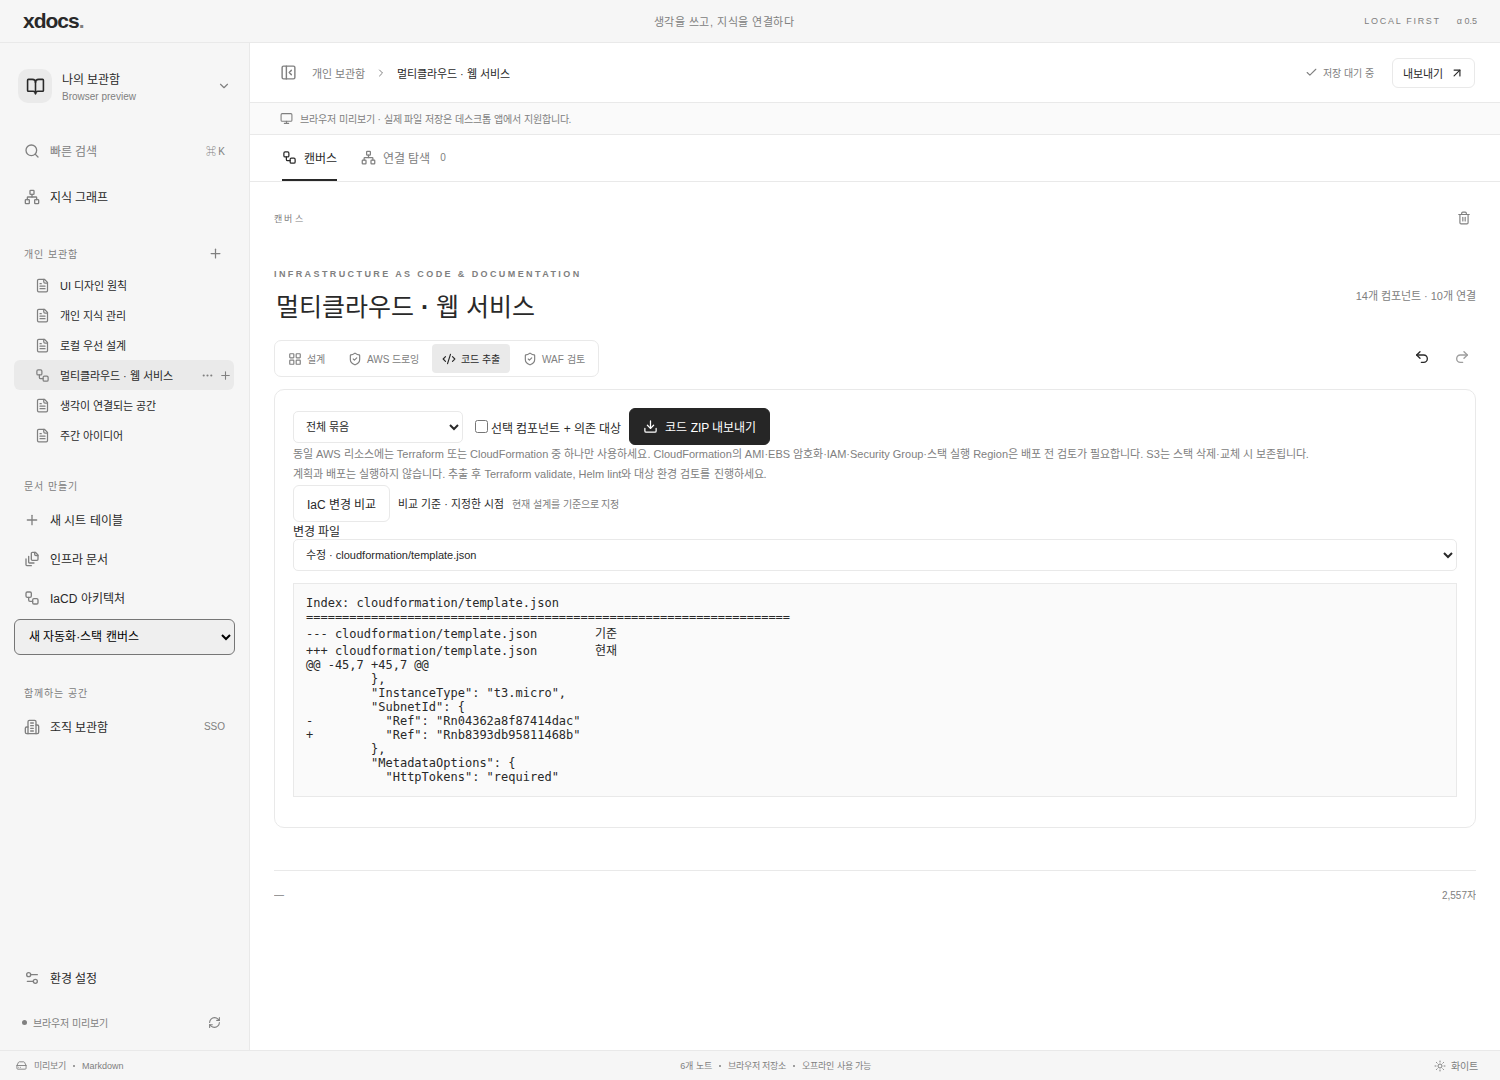
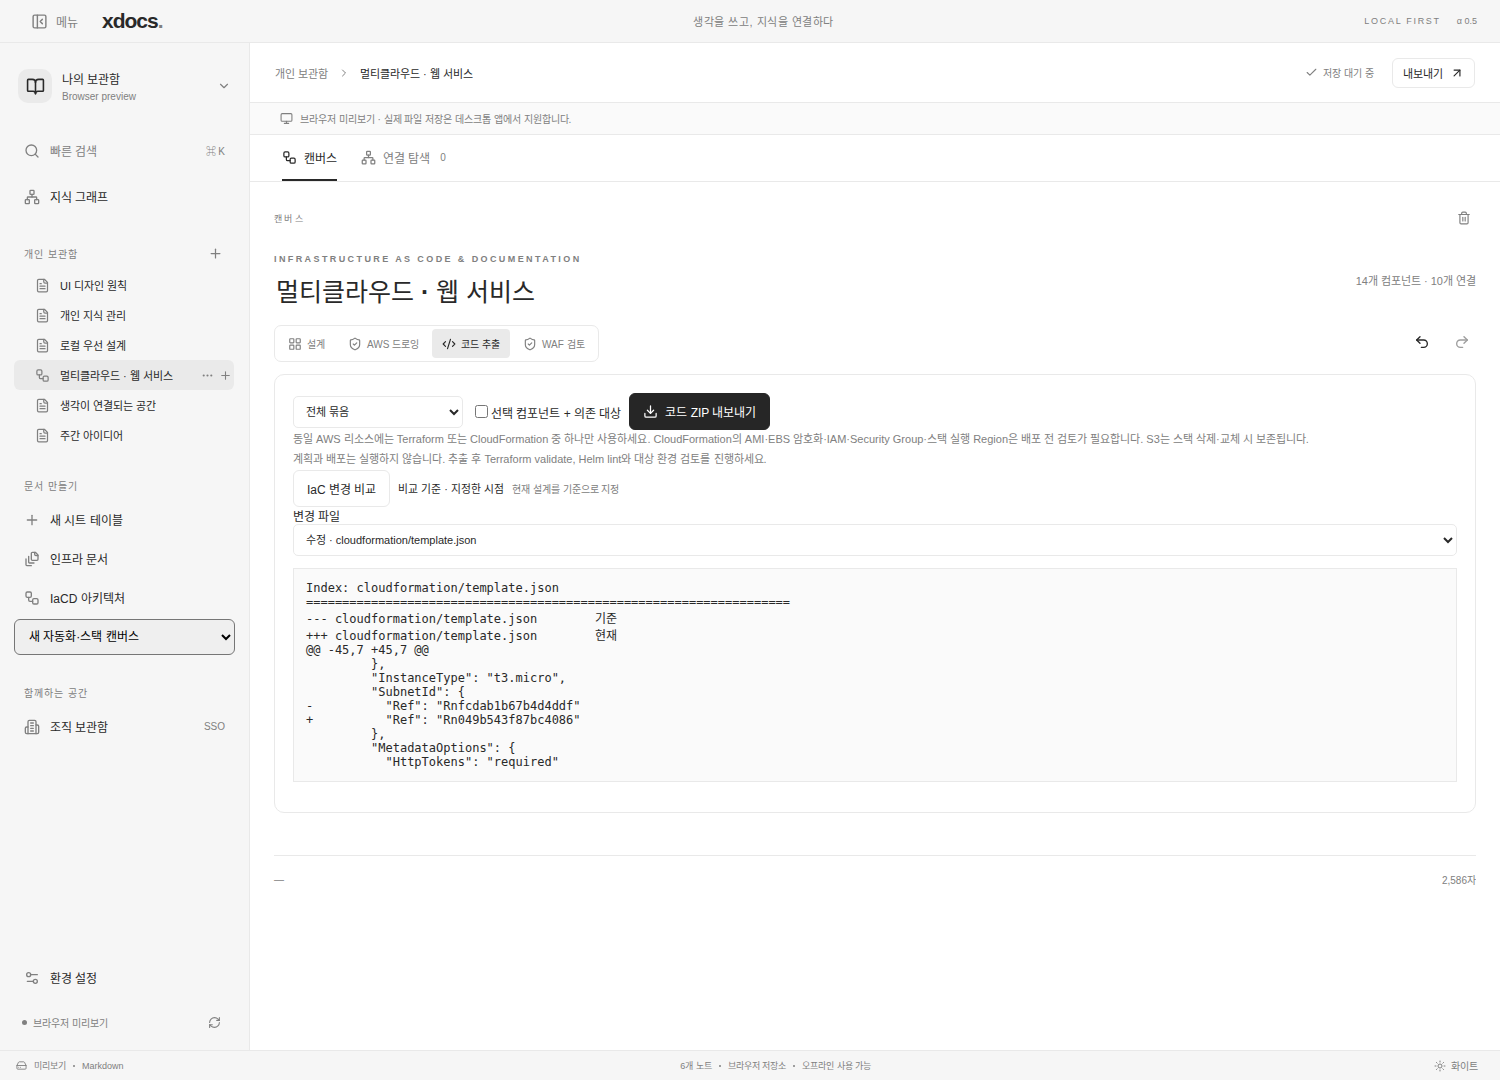
Keep workspace navigation accessible and expand cramped document views

diff --git a/src/App.tsx b/src/App.tsx
@@ -64,6 +64,7 @@ import {
   Moon,
   Network,
   PanelLeftClose,
+  PanelLeftOpen,
   Plus,
   RefreshCw,
   Search,
@@ -121,7 +122,30 @@ export default function App() {
   const [notice, setNotice] = useState("");
   const [exportOpen, setExportOpen] = useState(false);
   const [busy, setBusy] = useState(false);
-  const [sidebar, setSidebar] = useState(true);
+  const [desktopSidebar, setDesktopSidebar] = useState(
+    () => localStorage.getItem("xdocs.sidebar") !== "closed",
+  );
+  const [compactNav, setCompactNav] = useState(
+    () => matchMedia("(max-width: 600px)").matches,
+  );
+  const [drawer, setDrawer] = useState(false);
+  const sidebar = compactNav ? drawer : desktopSidebar;
+  useEffect(() => {
+    const query = matchMedia("(max-width: 600px)");
+    const resize = () => {
+      setCompactNav(query.matches);
+      setDrawer(false);
+    };
+    query.addEventListener("change", resize);
+    return () => query.removeEventListener("change", resize);
+  }, []);
+  function toggleSidebar() {
+    if (compactNav) setDrawer(!drawer);
+    else {
+      localStorage.setItem("xdocs.sidebar", desktopSidebar ? "closed" : "open");
+      setDesktopSidebar(!desktopSidebar);
+    }
+  }
   const architectureParent = useRef<string | undefined>(undefined);
   const current = useRef<Note | null>(null);
   const draft = useRef("");
@@ -379,6 +403,7 @@ export default function App() {
         void flush();
       }
       if (e.key === "Escape") {
+        setDrawer(false);
         setSearchOpen(false);
         setSettings(false);
         setRecovery(null);
@@ -719,15 +744,53 @@ export default function App() {
   return (
     <div className={`app ${sidebar ? "" : "sidebar-hidden"}`}>
       <header className="titlebar">
-        <div className="wordmark">
-          xdocs<span>.</span>
+        <div className="titlebar-start">
+          <button
+            className="sidebar-switch"
+            aria-label={sidebar ? "왼쪽 메뉴 접기" : "왼쪽 메뉴 펼치기"}
+            title={sidebar ? "왼쪽 메뉴 접기" : "왼쪽 메뉴 펼치기"}
+            aria-expanded={sidebar}
+            aria-controls="workspace-navigation"
+            onClick={toggleSidebar}
+          >
+            {sidebar ? (
+              <PanelLeftClose size={17} />
+            ) : (
+              <PanelLeftOpen size={17} />
+            )}
+            <span>메뉴</span>
+          </button>
+          <div className="wordmark">
+            xdocs<span>.</span>
+          </div>
         </div>
         <span className="titlebar-center">생각을 쓰고, 지식을 연결하다</span>
         <span className="version">
           LOCAL FIRST <span>α 0.5</span>
         </span>
       </header>
-      <aside className="sidebar">
+      {compactNav && drawer && (
+        <button
+          className="nav-backdrop"
+          aria-label="왼쪽 메뉴 닫기"
+          tabIndex={-1}
+          onClick={() => setDrawer(false)}
+        />
+      )}
+      <aside
+        className="sidebar"
+        id="workspace-navigation"
+        inert={!sidebar}
+        onClick={(e) => {
+          if (
+            compactNav &&
+            (e.target as Element).closest(
+              "button.nav-item:not(.note-item), .workspace-switch",
+            )
+          )
+            setDrawer(false);
+        }}
+      >
         <button
           className="workspace-switch"
           onClick={openVault}
@@ -764,7 +827,10 @@ export default function App() {
           <button
             aria-label="새 노트"
             title="새 노트"
-            onClick={() => void createNote()}
+            onClick={() => {
+              setDrawer(false);
+              void createNote();
+            }}
             disabled={!workspace || busy}
           >
             <Plus size={15} />
@@ -776,8 +842,14 @@ export default function App() {
           notes={notes}
           active={view === "note" ? active : ""}
           readonly={busy || workspace?.role === "reader"}
-          onOpen={(id) => void navigate(id)}
-          onCreate={(parent, kind) => void createPage(kind, parent)}
+          onOpen={(id) => {
+            setDrawer(false);
+            void navigate(id);
+          }}
+          onCreate={(parent, kind) => {
+            setDrawer(false);
+            void createPage(kind, parent);
+          }}
         />
         <div className="nav-label">
           <span>문서 만들기</span>
@@ -816,7 +888,10 @@ export default function App() {
           disabled={!workspace || readonly || busy}
           onChange={(e) => {
             const k = e.target.value as keyof typeof templates;
-            if (k) void createPage(k);
+            if (k) {
+              setDrawer(false);
+              void createPage(k);
+            }
           }}
         >
           <option value="">새 자동화·스택 캔버스</option>
@@ -887,16 +962,9 @@ export default function App() {
           )}
         </div>
       </aside>
-      <main className="main">
+      <main className="main" inert={compactNav && drawer}>
         <div className="toolbar">
           <div className="breadcrumb">
-            <button
-              className="icon-button"
-              aria-label="사이드바 전환"
-              onClick={() => setSidebar((s) => !s)}
-            >
-              <PanelLeftClose size={17} />
-            </button>
             <span>{shared ? "조직 보관함" : "개인 보관함"}</span>
             <ChevronRight size={12} />
             <strong>

diff --git a/src/styles.css b/src/styles.css
@@ -243,9 +243,7 @@ textarea {
   place-items: center;
 }
 .note-list {
-  overflow: auto;
-  min-height: 40px;
-  max-height: 48%;
+  flex: none;
   padding-right: 1px;
 }
 .note-item {
@@ -1830,7 +1828,7 @@ textarea {
 }
 
 .sheet-scroll {
-  max-height: clamp(180px, calc(100dvh - 440px), 540px);
+  max-height: clamp(260px, 60dvh, 760px);
 }
 
 .infrastructure-document {
@@ -2527,3 +2525,59 @@ textarea {
 .network-note {font-size:11px;display:flex;align-items:center;gap:6px;}
 .network-note input {flex:1;min-width:0;color:var(--ink);background:var(--surface);border:1px solid var(--line);}
 .network-sheet [data-bend] {cursor:move;}
+
+/* The navigation and its toggle have independent scroll ownership. */
+.titlebar-start, .sidebar-switch { display: flex; align-items: center; gap: 8px; }
+.titlebar-start { gap: 16px; }
+.sidebar-switch { min-height: 32px; padding: 4px 8px; border-radius: 5px; color: var(--muted); font-size: 12px; }
+.sidebar-switch:hover, .sidebar-switch:focus-visible { color: var(--ink); background: var(--hover); }
+.sidebar > * { flex-shrink: 0; }
+.toolbar, .preview-banner { flex-shrink: 0; }
+.arch-toolbar, .arch-tools, .arch-toolbar .segmented, .arch-canvas-tools { flex-wrap: wrap; }
+.arch-canvas-tools { height: auto; min-height: 40px; padding-block: 5px; }
+.arch-code, .arch-export, .infra-heading > *, .arch-header > * { min-width: 0; }
+.sheet-layout .document { max-width: none; }
+.arch-properties { min-width: 0; }
+.arch-properties select, .note-utilities select { max-width: 100%; }
+.view-tabs, .toolbar-actions { flex-wrap: wrap; }
+.reference-list { max-height: clamp(100px, 18dvh, 180px); }
+
+@media (max-height: 800px) {
+  .sidebar { padding-block: 14px; }
+  .workspace-switch { padding-bottom: 12px; }
+  .nav-label { padding-top: 14px; }
+  .sidebar-bottom { padding-top: 12px; }
+  .graph:not(.compact) { padding-block: 20px; }
+  .graph:not(.compact) .graph-canvas { min-height: clamp(260px, 42dvh, 370px); margin-block: 14px; }
+  .document, .sheet-layout .document { padding-block: 20px; }
+  .sheet-book, .architecture-document { margin-block: 12px; }
+  .infrastructure-document { padding-block: 12px; }
+}
+@media (max-width: 1050px) {
+  .arch-properties { max-height: none; overflow: visible; }
+  .sheet-layout .document { padding-inline: clamp(14px, 2.5vw, 28px); }
+}
+@media (max-width: 600px) {
+  .app, .app.sidebar-hidden { grid-template-columns: minmax(0, 1fr); }
+  .main { grid-column: 1; grid-row: 2; }
+  .sidebar { display: flex; position: fixed; top: 43px; bottom: 30px; left: 0; width: min(280px, 85vw); z-index: 21; }
+  .sidebar-hidden .sidebar { display: none; }
+  .nav-backdrop { position: fixed; inset: 43px 0 30px; background: #0005; z-index: 20; }
+  .arch-editor { grid-template-columns: minmax(0, 1fr); }
+  .arch-palette { display: flex; align-items: center; flex-wrap: wrap; gap: 4px; max-height: 32dvh; border-right: 0; border-bottom: 1px solid var(--line); }
+  .arch-palette > strong, .arch-palette select { margin: 0; }
+  .arch-palette > button { width: auto; }
+  .arch-code { grid-template-columns: minmax(0, 1fr); }
+  .arch-code nav { max-height: 24dvh; }
+  .arch-workspace { height: max(460px, 70dvh); }
+  .aws-inspector { grid-template-columns: minmax(0, 1fr); }
+  .infra-heading, .infra-detail header, .infra-summary > div { flex-wrap: wrap; }
+  .infra-summary { gap: 5px; }
+  .segmented { flex-wrap: wrap; }
+  .theme-options { grid-template-columns: repeat(2, minmax(0, 1fr)); }
+  .graph-filters > *, .infra-toolbar > *, .arch-export select { max-width: 100%; }
+}
+.note-utilities:empty { display: none; }
+@media (max-height: 800px) {
+  .sheet-layout .document-kicker { margin-bottom: 6px; }
+}

diff --git a/tests/ui/layout.spec.ts b/tests/ui/layout.spec.ts
@@ -1,0 +1,74 @@
+import { expect, test, type Page } from "@playwright/test";
+
+async function fitsWidth(page: Page, selector: string) {
+  const overflowing = await page
+    .locator(selector)
+    .evaluateAll((elements) =>
+      elements
+        .filter((e) => e.clientWidth > 0 && e.scrollWidth > e.clientWidth + 1)
+        .map((e) => e.className),
+    );
+  expect(overflowing).toEqual([]);
+}
+
+test("laptop sidebar stays reachable, remembers its width state and gives the tree one scroll area", async ({
+  page,
+}) => {
+  await page.setViewportSize({ width: 780, height: 600 });
+  await page.goto("/");
+  const menu = page.locator(".sidebar-switch");
+  const main = page.locator("main");
+  const tree = page.locator(".page-tree");
+  await expect(
+    tree.getByRole("button", { name: "주간 아이디어", exact: true }),
+  ).toBeVisible();
+  expect(await tree.evaluate((e) => e.clientHeight)).toBeGreaterThan(100);
+  expect(
+    await tree.evaluate((e) => e.scrollHeight - e.clientHeight),
+  ).toBeLessThanOrEqual(1);
+  await page.getByRole("button", { name: "새 시트 테이블" }).click();
+  expect(
+    await page.locator(".sheet-scroll").evaluate((e) => e.clientHeight),
+  ).toBeGreaterThan(300);
+  await main.evaluate((e) => {
+    e.scrollTop = e.scrollHeight;
+  });
+  await expect(menu).toBeInViewport();
+  await menu.click();
+  await expect(menu).toHaveAttribute("aria-expanded", "false");
+  expect(await main.evaluate((e) => e.clientWidth)).toBe(780);
+  await page.reload();
+  await expect(menu).toHaveAccessibleName("왼쪽 메뉴 펼치기");
+  await menu.click();
+  await expect(tree).toBeVisible();
+});
+
+test("narrow screens can navigate, read code and reach dialog controls", async ({
+  page,
+}) => {
+  await page.setViewportSize({ width: 390, height: 640 });
+  await page.goto("/");
+  const open = page.getByRole("button", { name: "왼쪽 메뉴 펼치기" });
+  await open.click();
+  await page.getByRole("button", { name: "환경 설정" }).click();
+  await fitsWidth(page, ".dialog");
+  await page.getByRole("button", { name: "설정 닫기" }).click();
+  await open.click();
+  await page
+    .getByRole("button", { name: "IaCD 아키텍처", exact: true })
+    .click();
+  await fitsWidth(page, ".dialog");
+  await page.getByRole("button", { name: "멀티클라우드 예제" }).click();
+  await expect(page.locator(".network-sheet")).toBeVisible();
+  for (const name of ["AWS 드로잉", "코드 추출", "WAF 검토", "설계"]) {
+    await page.getByRole("button", { name, exact: true }).click();
+    await fitsWidth(
+      page,
+      ".main, .arch-toolbar, .arch-editor, .arch-export, .arch-review",
+    );
+  }
+  await open.click();
+  await page.keyboard.press("Escape");
+  await expect(open).toHaveAttribute("aria-expanded", "false");
+  await expect(page.locator(".network-sheet")).toBeVisible();
+});
